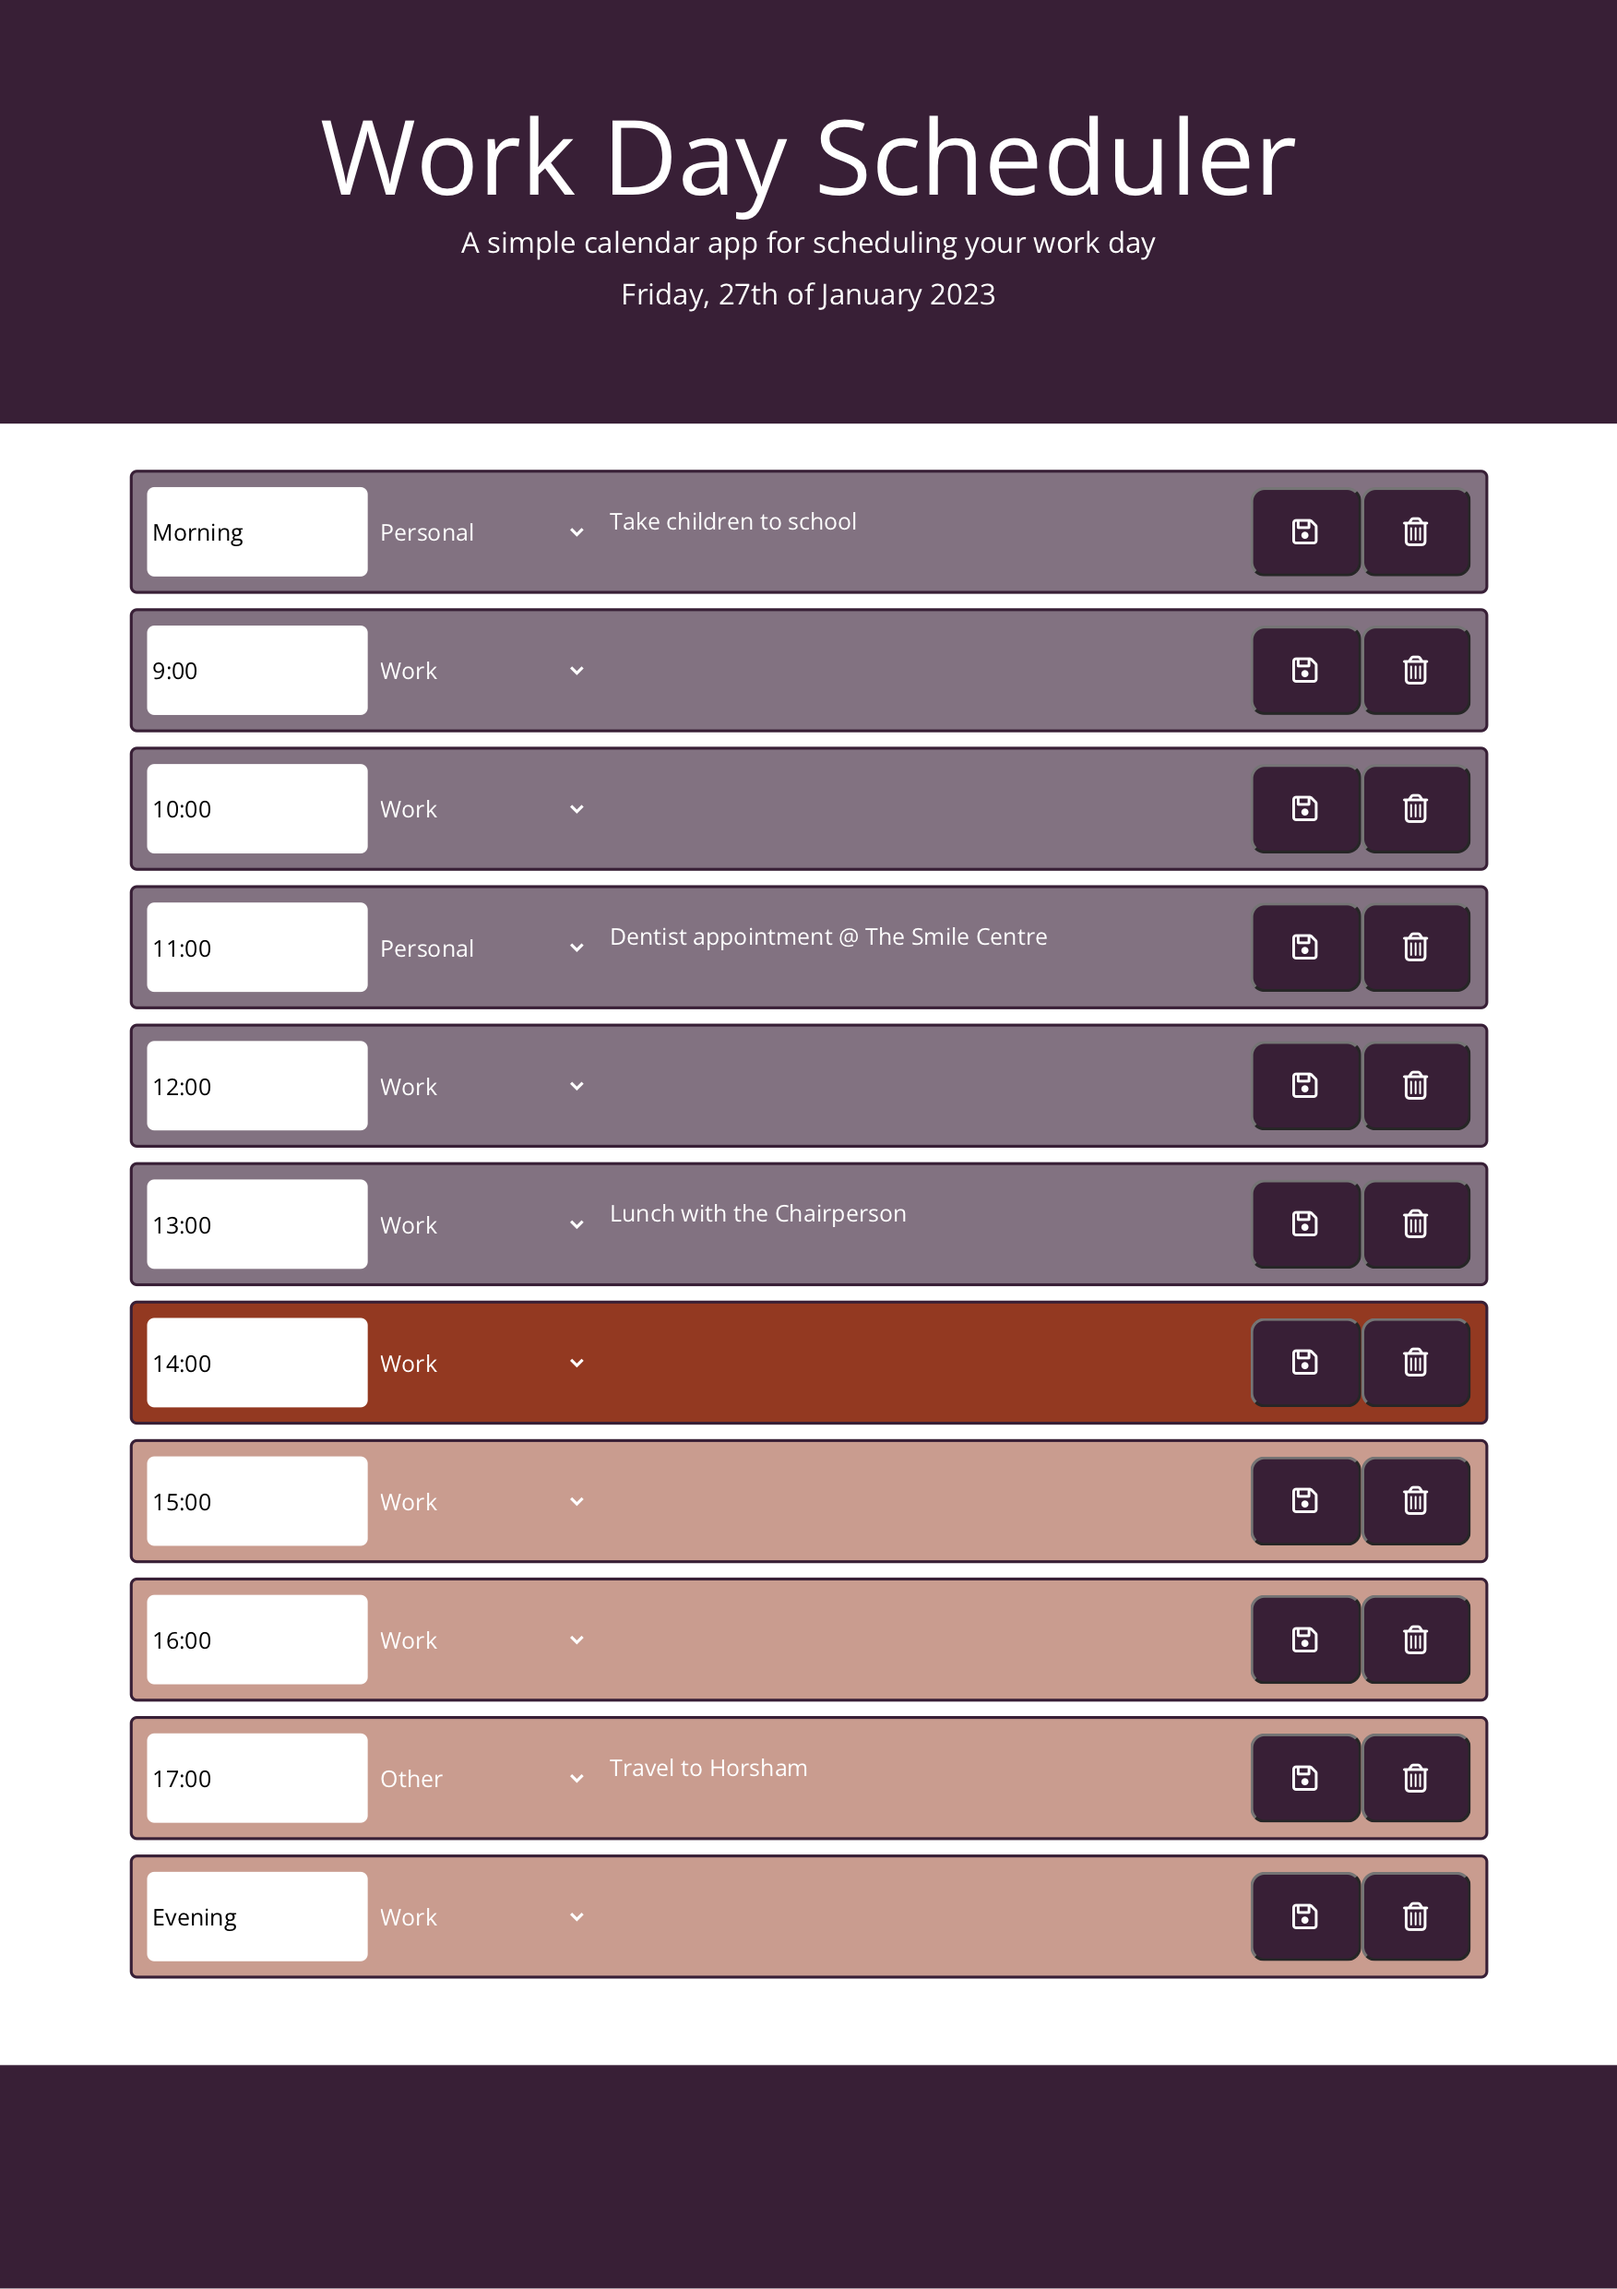
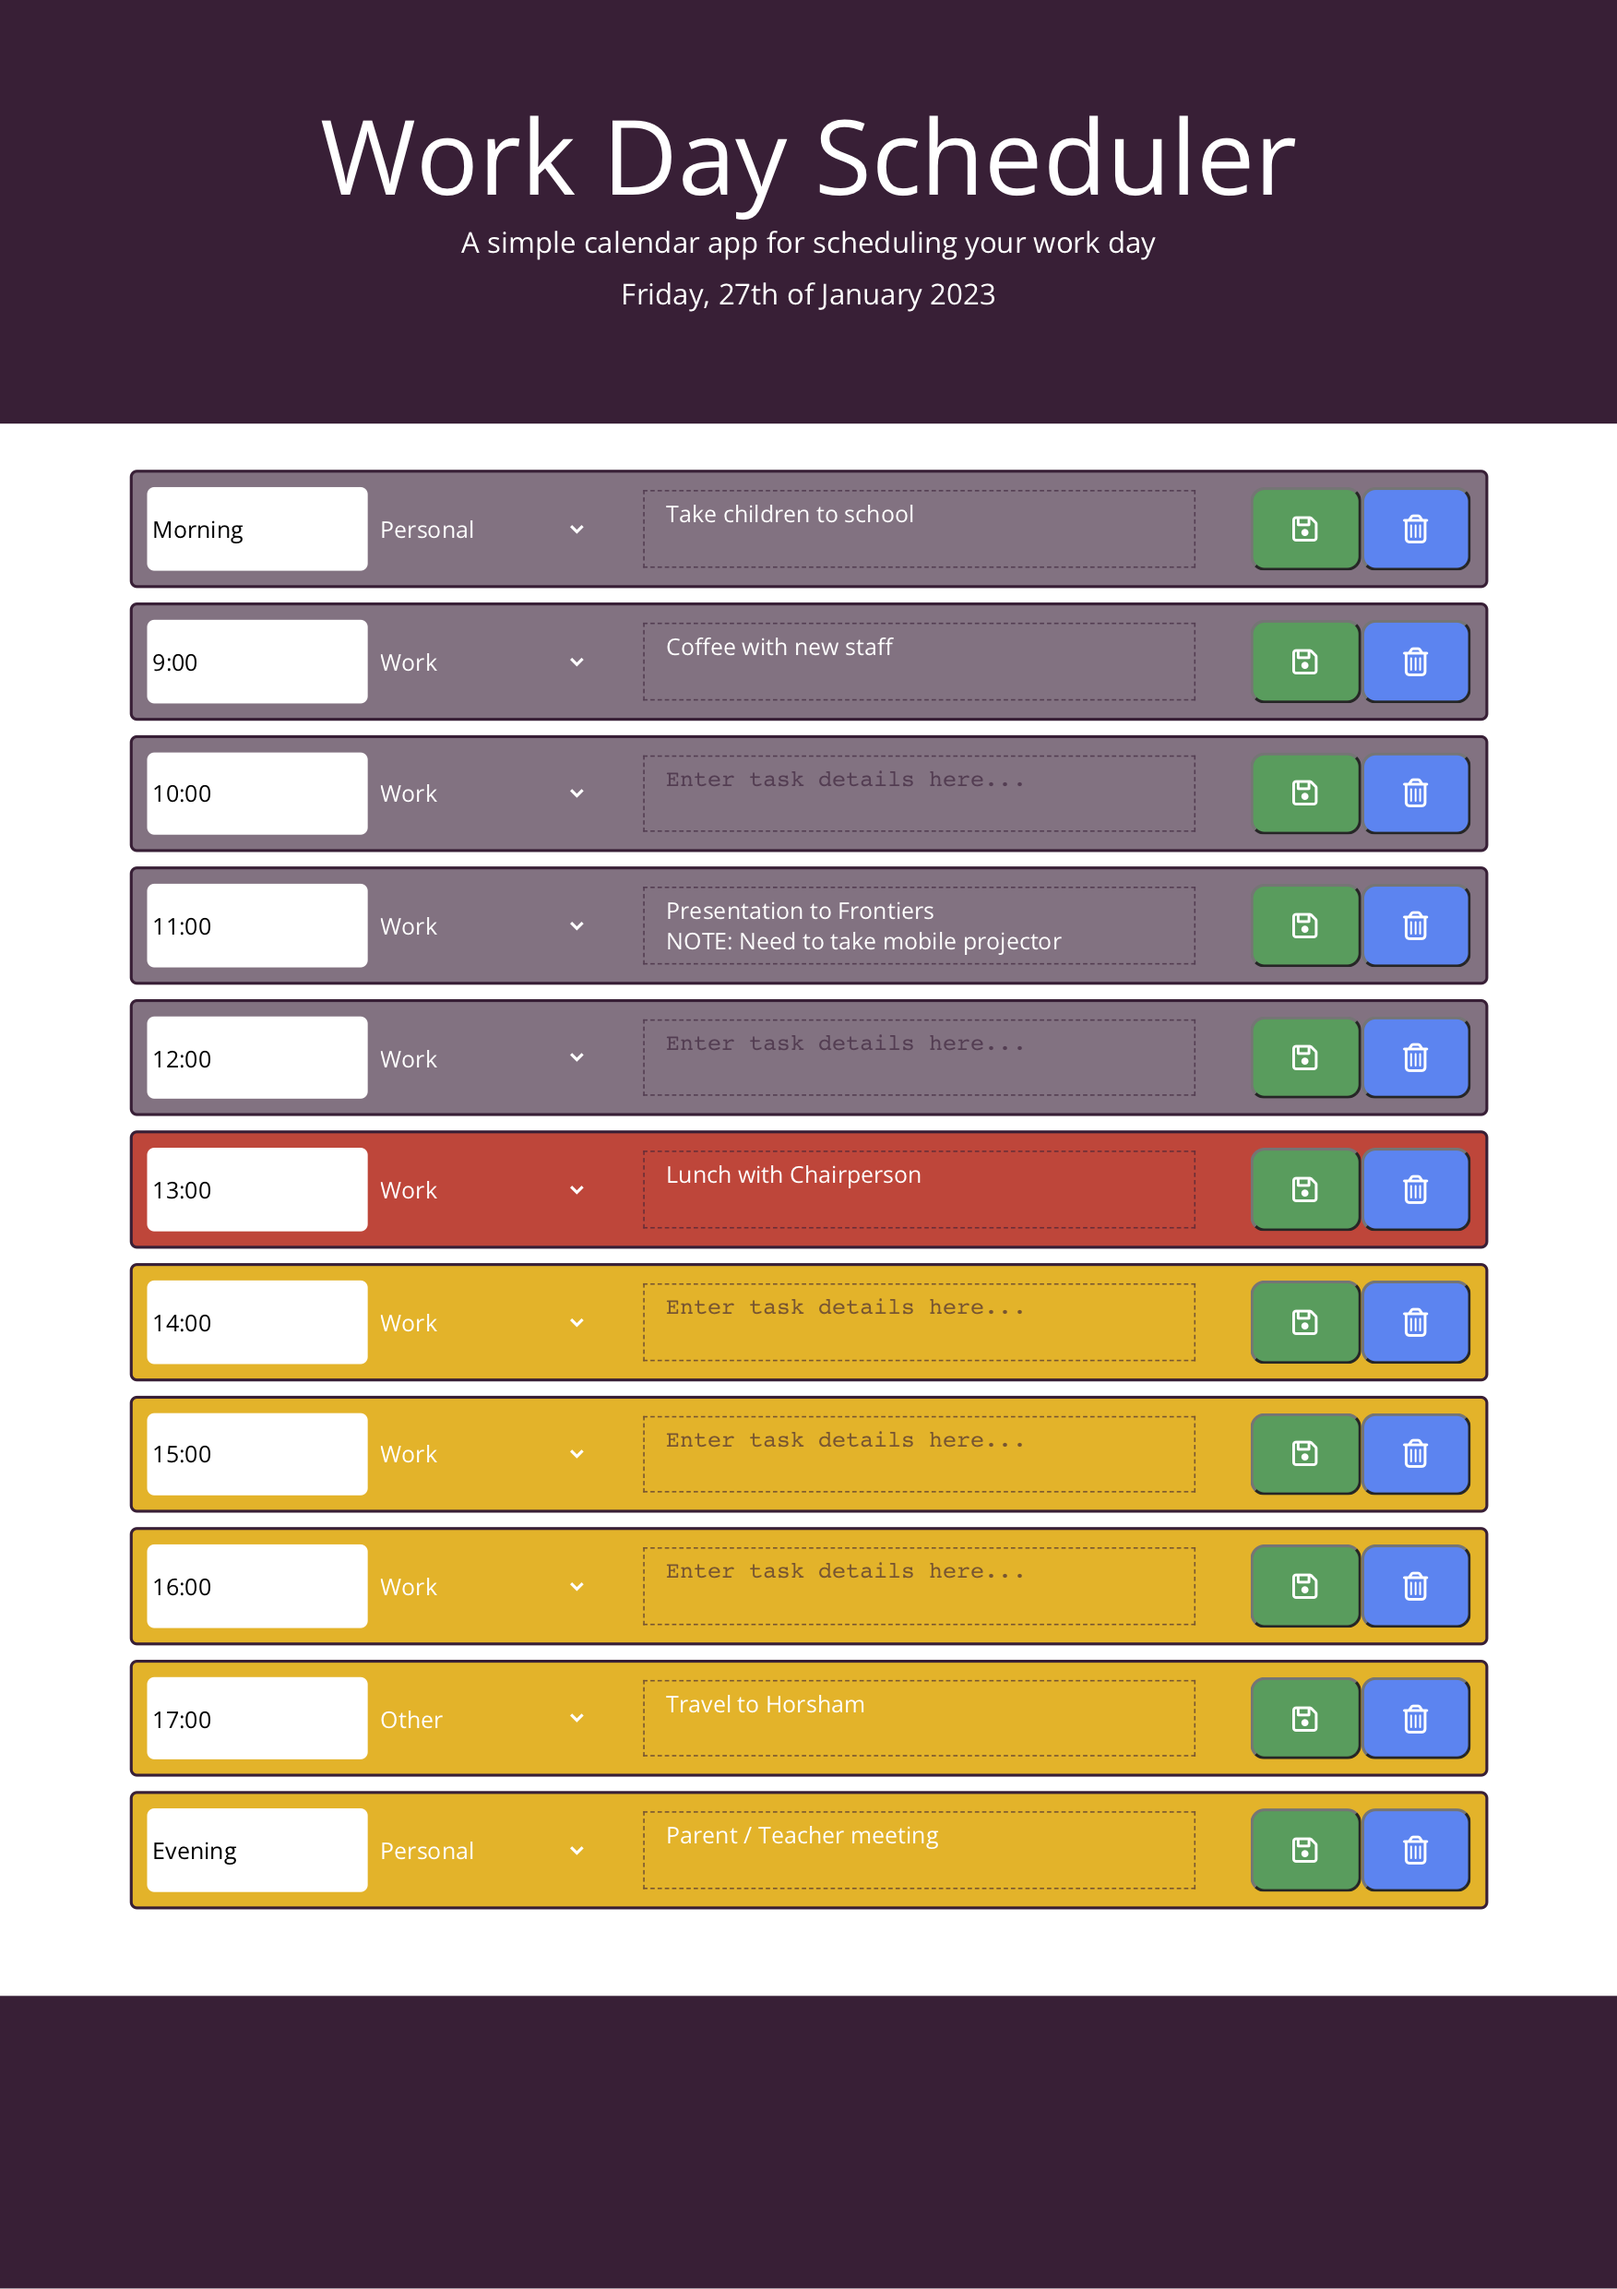
Added updated screenshots for readme.

diff --git a/assets/css/style.css b/assets/css/style.css
@@ -2,8 +2,6 @@
 :root {
   --mainColor: #3c1934;
   --mainColorOP: #3c1934a0;
-  --secondaryColor: #aa3619;
-  --secondaryColorOP: #aa361980;
 }
 
 html {
@@ -33,6 +31,7 @@ textarea {
   color: white;
   padding: 5px;
   margin: 2px auto;
+  line-height: 1.3;
 }
 
 textarea::placeholder {
